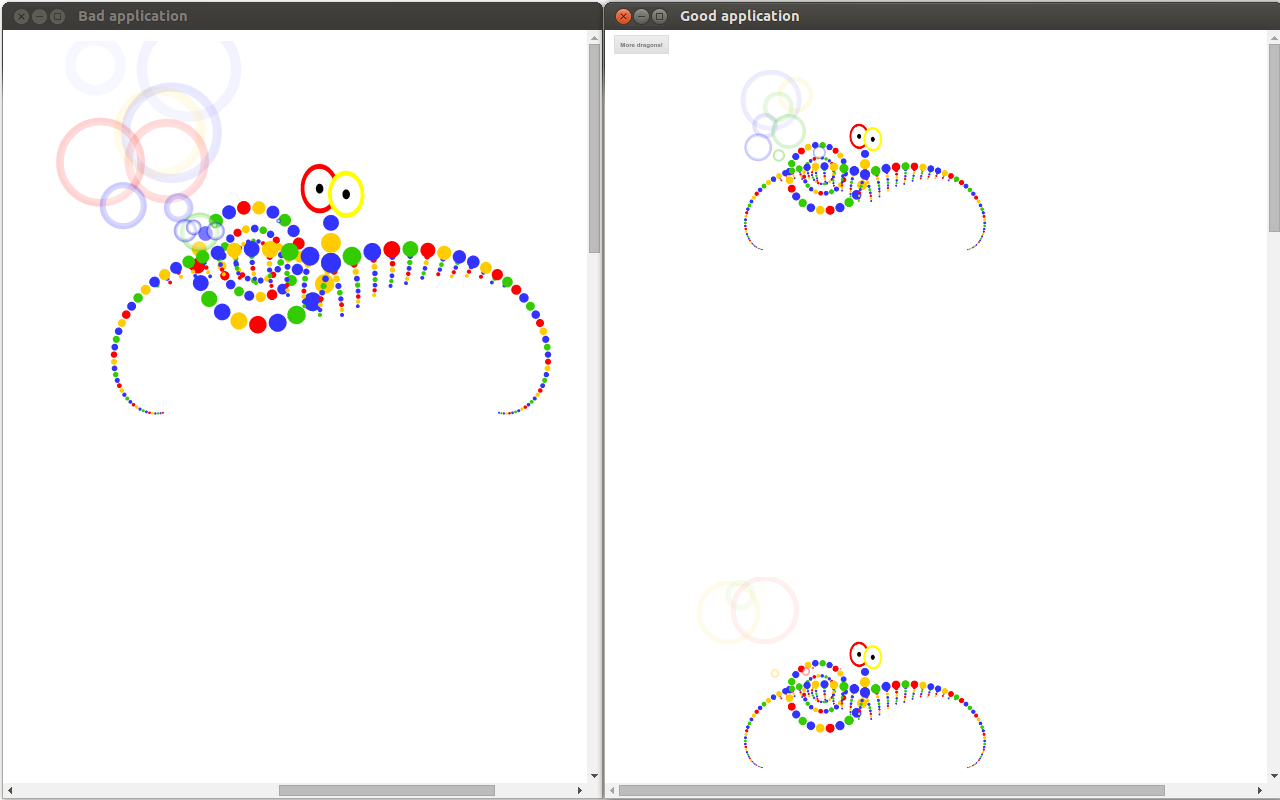
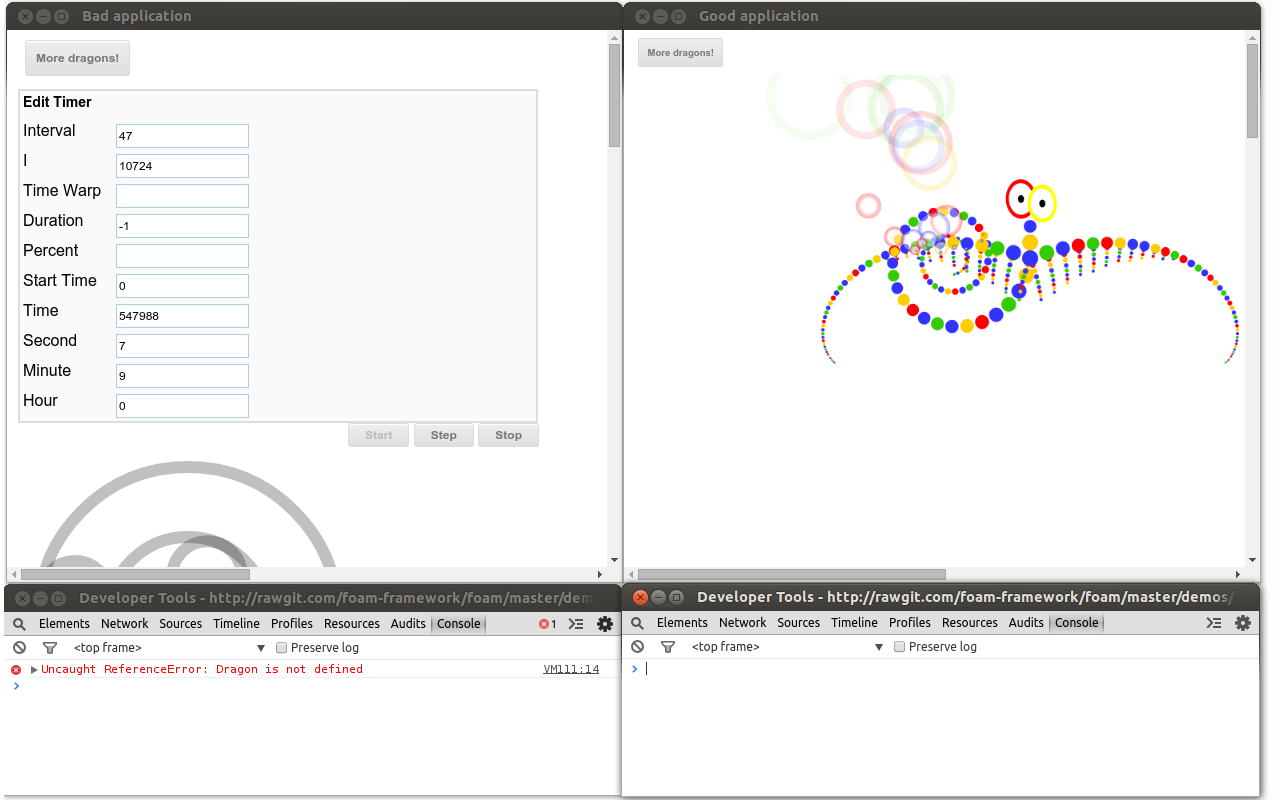
Fix bugs in bad_app: 'load' not 'onload' event, and invoking script function. Removed extraneous logging.

diff --git a/webview-samples/shared-script/bad_app.js b/webview-samples/shared-script/bad_app.js
@@ -1,6 +1,6 @@
 // When our app loads, setup a listener that will execute our script after the
 // target guest page has loaded.
-window.addEventListener('onload', function() {
+window.addEventListener('load', function() {
   var webview = document.querySelector('webview');
   webview.addEventListener('loadstop', function() {
     if (webview.src === 'http://rawgit.com/foam-framework/foam/master/demos/Tags.html') {
@@ -8,7 +8,8 @@ window.addEventListener('onload', function() {
       // scripting context, but content scripts run in an "isolated world" that
       // can only access the document (and no other shared Javascript objects).
       // See good_app.js for an example of what to do.
-      webview.executeScript({ code: addMoreDragons.toString() });
+      var scriptText = '(' + addMoreDragons.toString() + ')();';
+      webview.executeScript({ code: scriptText });
     }
   });
 });

diff --git a/webview-samples/shared-script/good_app.js b/webview-samples/shared-script/good_app.js
@@ -36,12 +36,9 @@ function generateScriptText(fn) {
 // When our app loads, setup a listener that will execute our script after the
 // target guest page has loaded.
 window.addEventListener('load', function() {
-  window.console.log('App loaded');
   var webview = document.querySelector('webview');
   webview.addEventListener('loadstop', function() {
-    window.console.log('Webview page loaded', webview.src);
     if (webview.src === 'http://rawgit.com/foam-framework/foam/master/demos/Tags.html') {
-      window.console.log('Executing script');
       webview.executeScript({ code: generateScriptText(addMoreDragons) });
     }
   });
